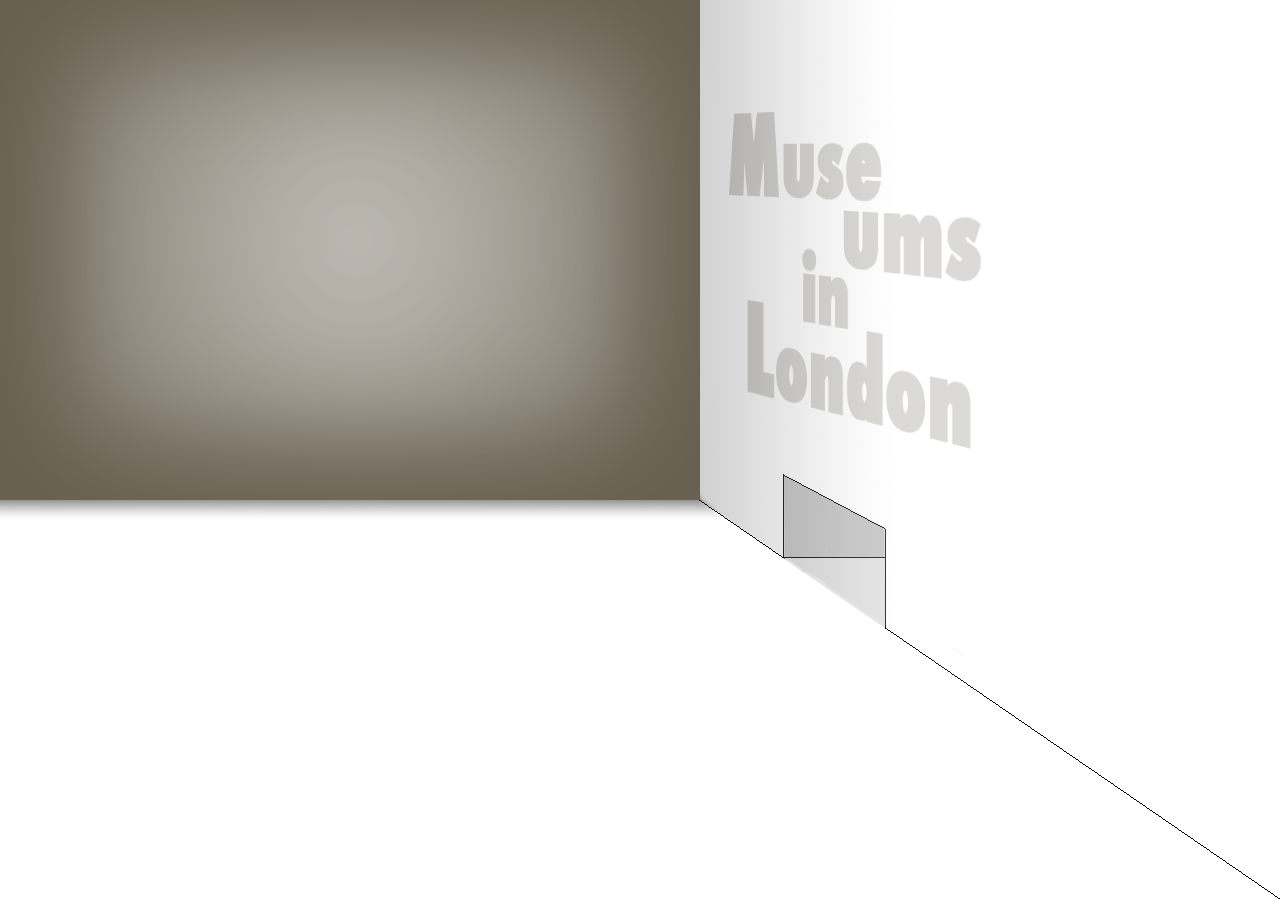
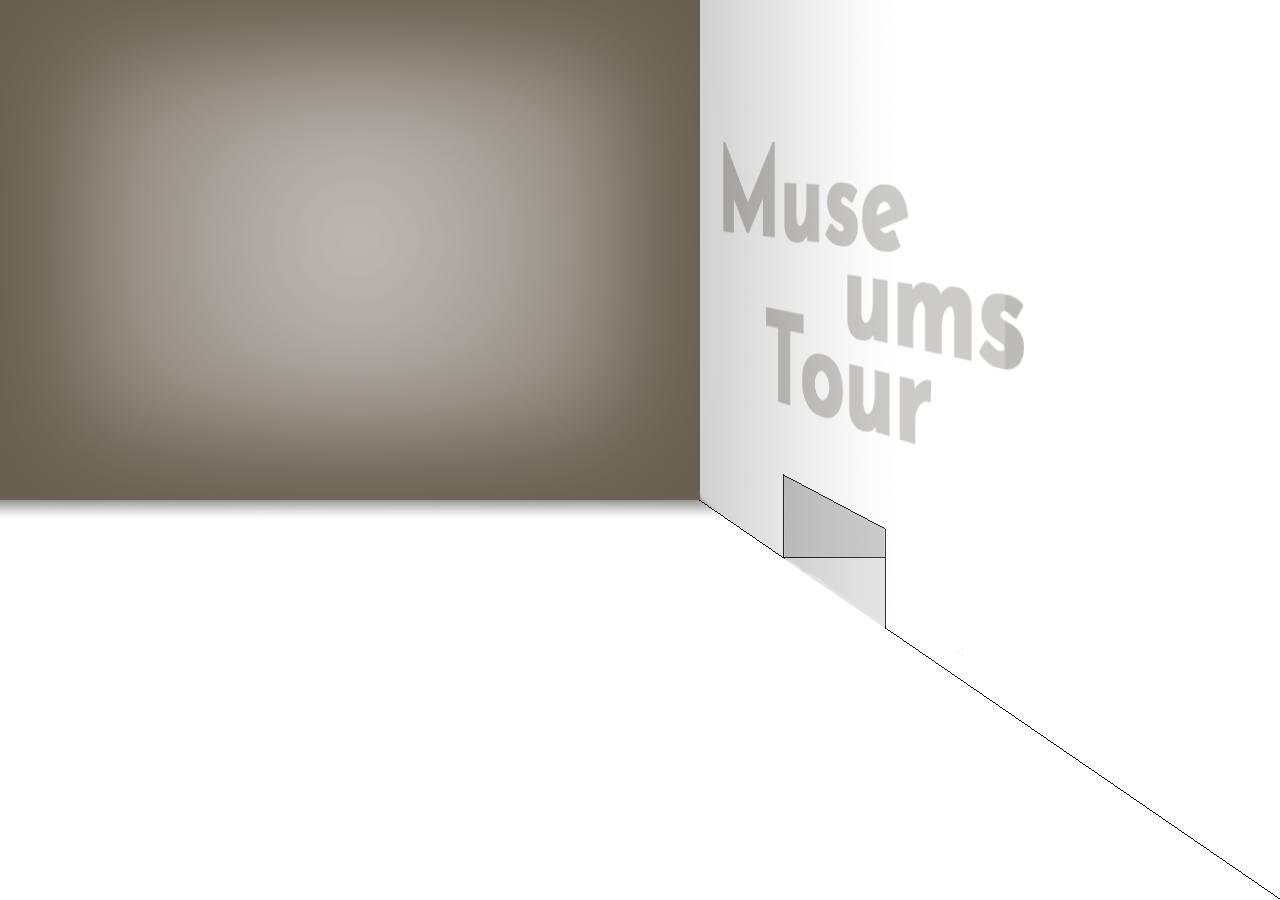
Add files via upload

Changed region(s): [[0.5625, 0.1244, 0.8125, 0.4978]]

diff --git a/common/css/stylesheet.css b/common/css/stylesheet.css
@@ -3,13 +3,23 @@
 @import url('https://fonts.googleapis.com/css2?family=M+PLUS+1p:wght@300&display=swap');
 
 
-@import url('https://fonts.googleapis.com/css2?family=Abril+Fatface&family=Fondamento&family=Great+Vibes&family=Righteous&family=Rye&display=swap');
+@import url('https://fonts.googleapis.com/css2?family=Abril+Fatface&family=Acme&family=Fondamento&family=Great+Vibes&family=Marcellus&family=Monoton&family=Nova+Mono&family=Parisienne&family=Righteous&family=Rye&family=Spinnaker&family=Yeseva+One&display=swap');
 
-.typeBM {font-family: 'Abril Fatface', cursive; }
-.typeNG {font-family: 'Great Vibes', cursive;}
-.typeTB {font-family: 'Fondamento', cursive;}
-.typeTM {font-family: 'Righteous', cursive;}
-.typeVA {font-family: 'Rye', cursive;}
+
+.typeAF {font-family: 'Abril Fatface', cursive;}
+.typeAcme {font-family: 'Acme', sans-serif;}
+.typeFM {font-family: 'Fondamento', cursive;}
+.typeGV {font-family: 'Great Vibes', cursive;}
+.typeML {font-family: 'Marcellus', serif;}
+.typeMo {font-family: 'Monoton', cursive;}
+.typeNM {font-family: 'Nova Mono', monospace;}
+.typePa {font-family: 'Parisienne', cursive;}
+.typeRE {font-family: 'Righteous', cursive;}
+.typeRye {font-family: 'Rye', cursive;}
+.typeSp {font-family: 'Spinnaker', sans-serif;}
+.typeYO {font-family: 'Yeseva One', cursive;}
+
+
 
 .typeHOME {font-family: 'Josefin Sans', sans-serif;}
 
@@ -17,51 +27,88 @@
 
 
 body {
+  font-family: sans-serif;
   background-image: url("../images/bg.png");
   background-repeat: no-repeat;
-  font-family: sans-serif;
 }
 
+.clearfix::after {
+   content: "";
+   display: block;
+   clear: both;
+}
+
+
 /*リンク*/
-a {color: #4169E1;}
-a:hover {color: #A52A2A;}
+a {color: #675f4f;}
+
 
 /*ページ*/
 #page {
-width: 600px;
+width: 1280px;
 position: absolute;
 top: 50px;
 left: 50px;
 }
 
+#pageBodyMain {
+width: 600px;
+}
+
+#outpage p {
+  margin: 0;
+}
+
+/*出口*/
+#pageBodyExit {
+position: absolute;
+width: 110px;
+height: 150px;
+top: 425px;
+left: 734px;
+}
+#pageBodyExit p {
+margin: 0px;
+}
+
+
+
 /*グローバルナビ*/
 #pageBodySub {
   position: absolute;
+  width: 720px;
   top: 460px;
   left: 0px;
 }
-#pageBodySub .globalNavi h1 {
+
+#pageBodySub .HomeTitle {
+  float: left;
+}
+
+
+#pageBodySub .globalNavi  h1{
   margin-bottom: 0px;
 }
+
 #pageBodySub .globalNavi h1 a {
 font-family: 'Josefin Sans', sans-serif;
 text-decoration: none;
 font-size: 55px;
-}
 
+}
 
 #pageBodySub .globalNavi ul{
   margin: 0;
   padding: 0;
 }
-#pageBodySub .globalNavi ul li {
+#pageBodySub .globalNavi li {
   list-style: none;
-  padding-right: 20px;
+  padding-right: 25px;
   float: left;
-  font-size: 28px;
-  line-height: 35px;
+  font-size: 24px;
+  line-height: 30px;
 }
-#pageBodySub .globalNavi ul li a{
+#pageBodySub .globalNavi  ul li a{
   text-decoration: none;
 }
 
@@ -72,31 +119,70 @@ font-size: 55px;
 
 #pageBodySub .globalNavi ul li a:hover ,
 #pageBodySub .globalNavi ul li.current a {
- color: #A52A2A;
+ color: #4169e1;
 }
+
+/*ーーーーツールチップーーーー*/
+.tooltip{
+  float: right;
+    position: relative;
+    cursor: pointer;
+    display:  inline-block;
+}
+.tooltip img{
+    width: 80px;
+    height: 50px;
+}
+.description {
+    display: none;
+    position: absolute;
+    padding: 10px;
+    font-size: 12px;
+    line-height: 1.6em;
+    color: #fff;
+    border-radius: 5px;
+    background: #000;
+    width: 100px;
+}
+
+.description:before {
+    content: "";
+    position: absolute;
+    top: 100%;
+    left: 50%;
+    border: 15px solid transparent;
+    border-top: 15px solid #000;
+    margin-left: -15px;
+}
+.tooltip:hover .description{
+    display: inline-block;
+    top: -80px;
+    left: -15px;
+}
+/*ーーーーツールチップーーーー*/
 
 
 
 /*-----トップページの内容-----*/
 /*メインビジュアル*/
-
 #pageBodyMain .mainVisual {
   position: relative;
+
 }
 #pageBodyMain .mainVisual .mainVisualText {
   position: absolute;
-  left: 150px;
+  left: 130px;
   top: 80px;
   color: white;
-background-color: #4169e1;
+background-color: #4169e1	;
   opacity: 0.7;
-  width: 310px;
-  padding: 20px 30px;
+  width: 335px;
+  padding: 20px 0px 40px 30px;
   -moz-box-sizing: border-box;
   box-sizing: border-box;
 }
 #pageBodyMain .mainVisual .mainVisualText h1 {
-  font-size: 50px;
+  font-size: 47px;
   line-height: 1;
   margin-bottom: 15px;
 }
@@ -109,7 +195,7 @@ background-color: #4169e1;
 background-color: #4169e1;
   opacity: 0.7;
   width: 340px;
-  padding: 20px 30px;
+  padding: 20px 0px 20px 30px;
   -moz-box-sizing: border-box;
   box-sizing: border-box;
 }
@@ -164,51 +250,123 @@ background-color: #4169e1;
   margin: auto;
 }
 #pageBodyMain .articleVisuals .p1 {
-display: inline-block;
+  display: inline-block;
 margin: 0px;
 }
 #pageBodyMain .articleVisuals img {
-border: solid 4px #daa520;
+border: solid 3px #daa520;
 box-shadow: 2px 2px 4px black;
 margin: 0px 5px;
 vertical-align: middle;
 box-sizing: border-box;
+transition-duration: 0.5s;
 }
+#pageBodyMain .articleVisuals img:hover {
+  transform: scale(1.4,1.4);
+  transition-duration: 0.3s;
+  }
+
 /*画像２段目*/
 #pageBodyMain .articleVisuals2 {
   text-align: center;
   margin: auto;
 }
 #pageBodyMain .articleVisuals2 .p1 {
-display: inline-block;
+  display: inline-block;
 margin: 10px 0px 0px 0px;
 }
 #pageBodyMain .articleVisuals2 img {
+border: solid 3px #daa520;
+box-shadow: 2px 2px 4px black;
+margin: 0px 5px;
+vertical-align: middle;
+box-sizing: border-box;
+transition-duration: 0.5s;
+}
+#pageBodyMain .articleVisuals2 img:hover {
+  transform: scale(1.7,1.7);
+  transition-duration: 0.3s;
+  }
+
+  /*テキスト*/
+  #pageBodyMain .articleText h2 {
+    font-size: 30px;
+    color: white;
+    margin-top: 30px;
+    margin-bottom: 0px;
+  }
+  #pageBodyMain .articleText h3 {
+    font-family: 'Josefin Sans', sans-serif;
+    margin-top: 5px;
+    margin-bottom: 10px;
+
+  }
+  #pageBodyMain .articleText h3 a {
+    text-decoration: none;
+    color: #444444;
+  }
+  #pageBodyMain .articleText p {
+  font-family: 'M PLUS 1p', sans-serif;
+    font-size: 14px;
+    line-height: 1.5;
+    color: white;
+    margin: 0;
+  }
+
+
+/*-----Mapページ-----*/
+#pageBodyMain .articleMaps {
+  text-align: center;
+  margin: auto;
+}
+#pageBodyMain .articleMaps .p1 {
+display: inline-block;
+margin: 0px;
+}
+#pageBodyMain .articleMaps img {
 border: solid 4px #daa520;
 box-shadow: 2px 2px 4px black;
 margin: 0px 5px;
 vertical-align: middle;
 box-sizing: border-box;
 }
+
 /*テキスト*/
-#pageBodyMain .articleText h2 {
-  font-size: 30px;
-  color: white;
-  margin-top: 30px;
-  margin-bottom: 0px;
-}
-#pageBodyMain .articleText h3 {
-  font-family: 'Josefin Sans', sans-serif;
-  margin-top: 5px;
-}
-#pageBodyMain .articleText h3 a {
-  text-decoration: none;
-  color: #A52A2A;
-}
-#pageBodyMain .articleText p {
+#pageBodyMain .articleMapsText p {
 font-family: 'M PLUS 1p', sans-serif;
   font-size: 14px;
   line-height: 1.5;
   color: white;
   margin: 0;
+}
+#pageBodyMain .mapNavi {
+  position: absolute;
+  top: 410px;
+}
+
+
+#pageBodyMain .mapNavi  h5{
+  margin: 0;
+}
+
+
+#pageBodyMain .mapNavi ul{
+  margin: 0;
+  padding: 0;
+}
+#pageBodyMain .mapNavi li {
+  list-style: none;
+  padding-right: 40px;
+  float: left;
+  font-size: 24px;
+}
+#pageBodyMain .mapNavi  ul li a{
+color: white;
+  text-decoration: none;
+}
+
+#pageBodyMain .mapNavi h5 a:hover ,
+#pageBodyMain .mapNavi h5.current a {
+  color: #A52A2A;
+
 }
